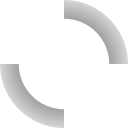
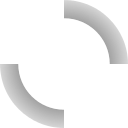
play button updated

diff --git a/qml/components/PlayButton.qml b/qml/components/PlayButton.qml
@@ -23,7 +23,7 @@ IconButton
         anchors { centerIn: parent }
         width: parent.width * 1.15
         height: width
-        opacity: playing ? 0.25 : 0.0
+        opacity: playing ? 0.35 : 0.0
 
         Behavior on opacity
         {
